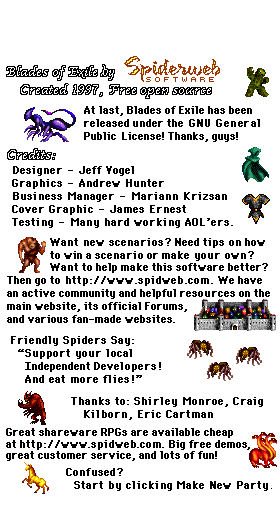
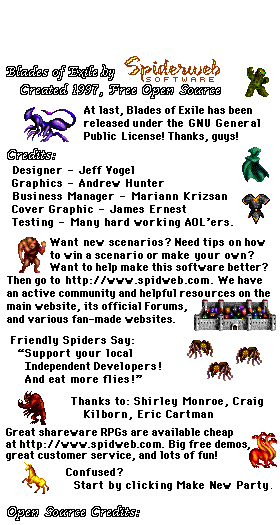
2-column open source credits

diff --git a/pkg/generate-credits.py b/pkg/generate-credits.py
@@ -19,7 +19,9 @@ def get_confirmed_names(filename):
         # After the confirmed names, there may be Not Confirmed: names.
         if 'Not Confirmed:' in lines:
             lines = lines[0:lines.index('Not Confirmed:')]
-        return [line.replace('- ', '') for line in lines if len(line) > 0]
+
+        # Lines should either start with "- " or "    " if continuing the previous name, wrapped and indented:
+        return [line[2:] for line in lines if len(line) > 0]
 
 def main():
     # Generate about-boe.xml from about-boe-template.xml:
@@ -83,19 +85,59 @@ def main():
             output_file.write(content)
 
         # Generate startanim.png using ImageMagick
-        image_lines = ['* OPEN SOURCE CREDITS *', ' ', ' ']
+
+        image_lines_col1 = []
+        image_lines_col2 = []
+
+        # Note: blank lines need to have a space in them for some reason
         def add_heading(heading):
-            image_lines.append(f'- {heading.upper()} -')
-            image_lines.extend(" ")
-            image_lines.extend(name_dict[heading])
-            image_lines.extend(" ")
+            image_lines_col1.append(f'- {heading.upper()} -')
+            image_lines_col1.append(' ')
+            image_lines_col2.extend([' ', ' '])
+            
+            # (Complicated)
+            # Split the names into two columns, still vertically alphabetized,
+            # while keeping multi-line names on the same column!
+            names = name_dict[heading]
+            left_column = True
+
+            idx = 0
+            while idx < len(names):
+                current_column = image_lines_col1 if left_column else image_lines_col2
+                current_column.append(names[idx])
+                multiline_idx = idx + 1
+                while multiline_idx < len(names) and names[multiline_idx].startswith(' '):
+                    current_column.append(names[multiline_idx])
+                    multiline_idx += 1
+                    idx += 1
+                left_column = len(image_lines_col1) <= len(image_lines_col2)
+                idx += 1
+
+            while len(image_lines_col1) != len(image_lines_col2):
+                current_column = image_lines_col1 if left_column else image_lines_col2
+                current_column.append(' ')
+
+            image_lines_col1.append(' ')
+            image_lines_col2.append(' ')
 
         add_heading('Programming')
         add_heading('Graphics')
         add_heading('Testing')
         add_heading('Funding')
 
-        run(['bash', 'pkg/generate-startanim.sh'], input='\n'.join(image_lines), encoding='ascii')
+        # when one column starts with blank lines, ImageMagick doesn't offset the top correctly.
+        # So we pass the number of lines to y-offset the right column image
+        col2_blank_lines_start = 0
+        for line in image_lines_col2:
+            if line == ' ':
+                col2_blank_lines_start += 1
+            else:
+                break
+
+        run(['bash', 'pkg/generate-startanim-col.sh', '1', '0'], input='\n'.join(image_lines_col1), encoding='ascii')
+        # print(col2_blank_lines_start)
+        run(['bash', 'pkg/generate-startanim-col.sh', '2', str(col2_blank_lines_start)], input='\n'.join(image_lines_col2), encoding='ascii')
+        run(['bash', 'pkg/generate-startanim.sh'])
 
 if __name__ == "__main__":
     main()
